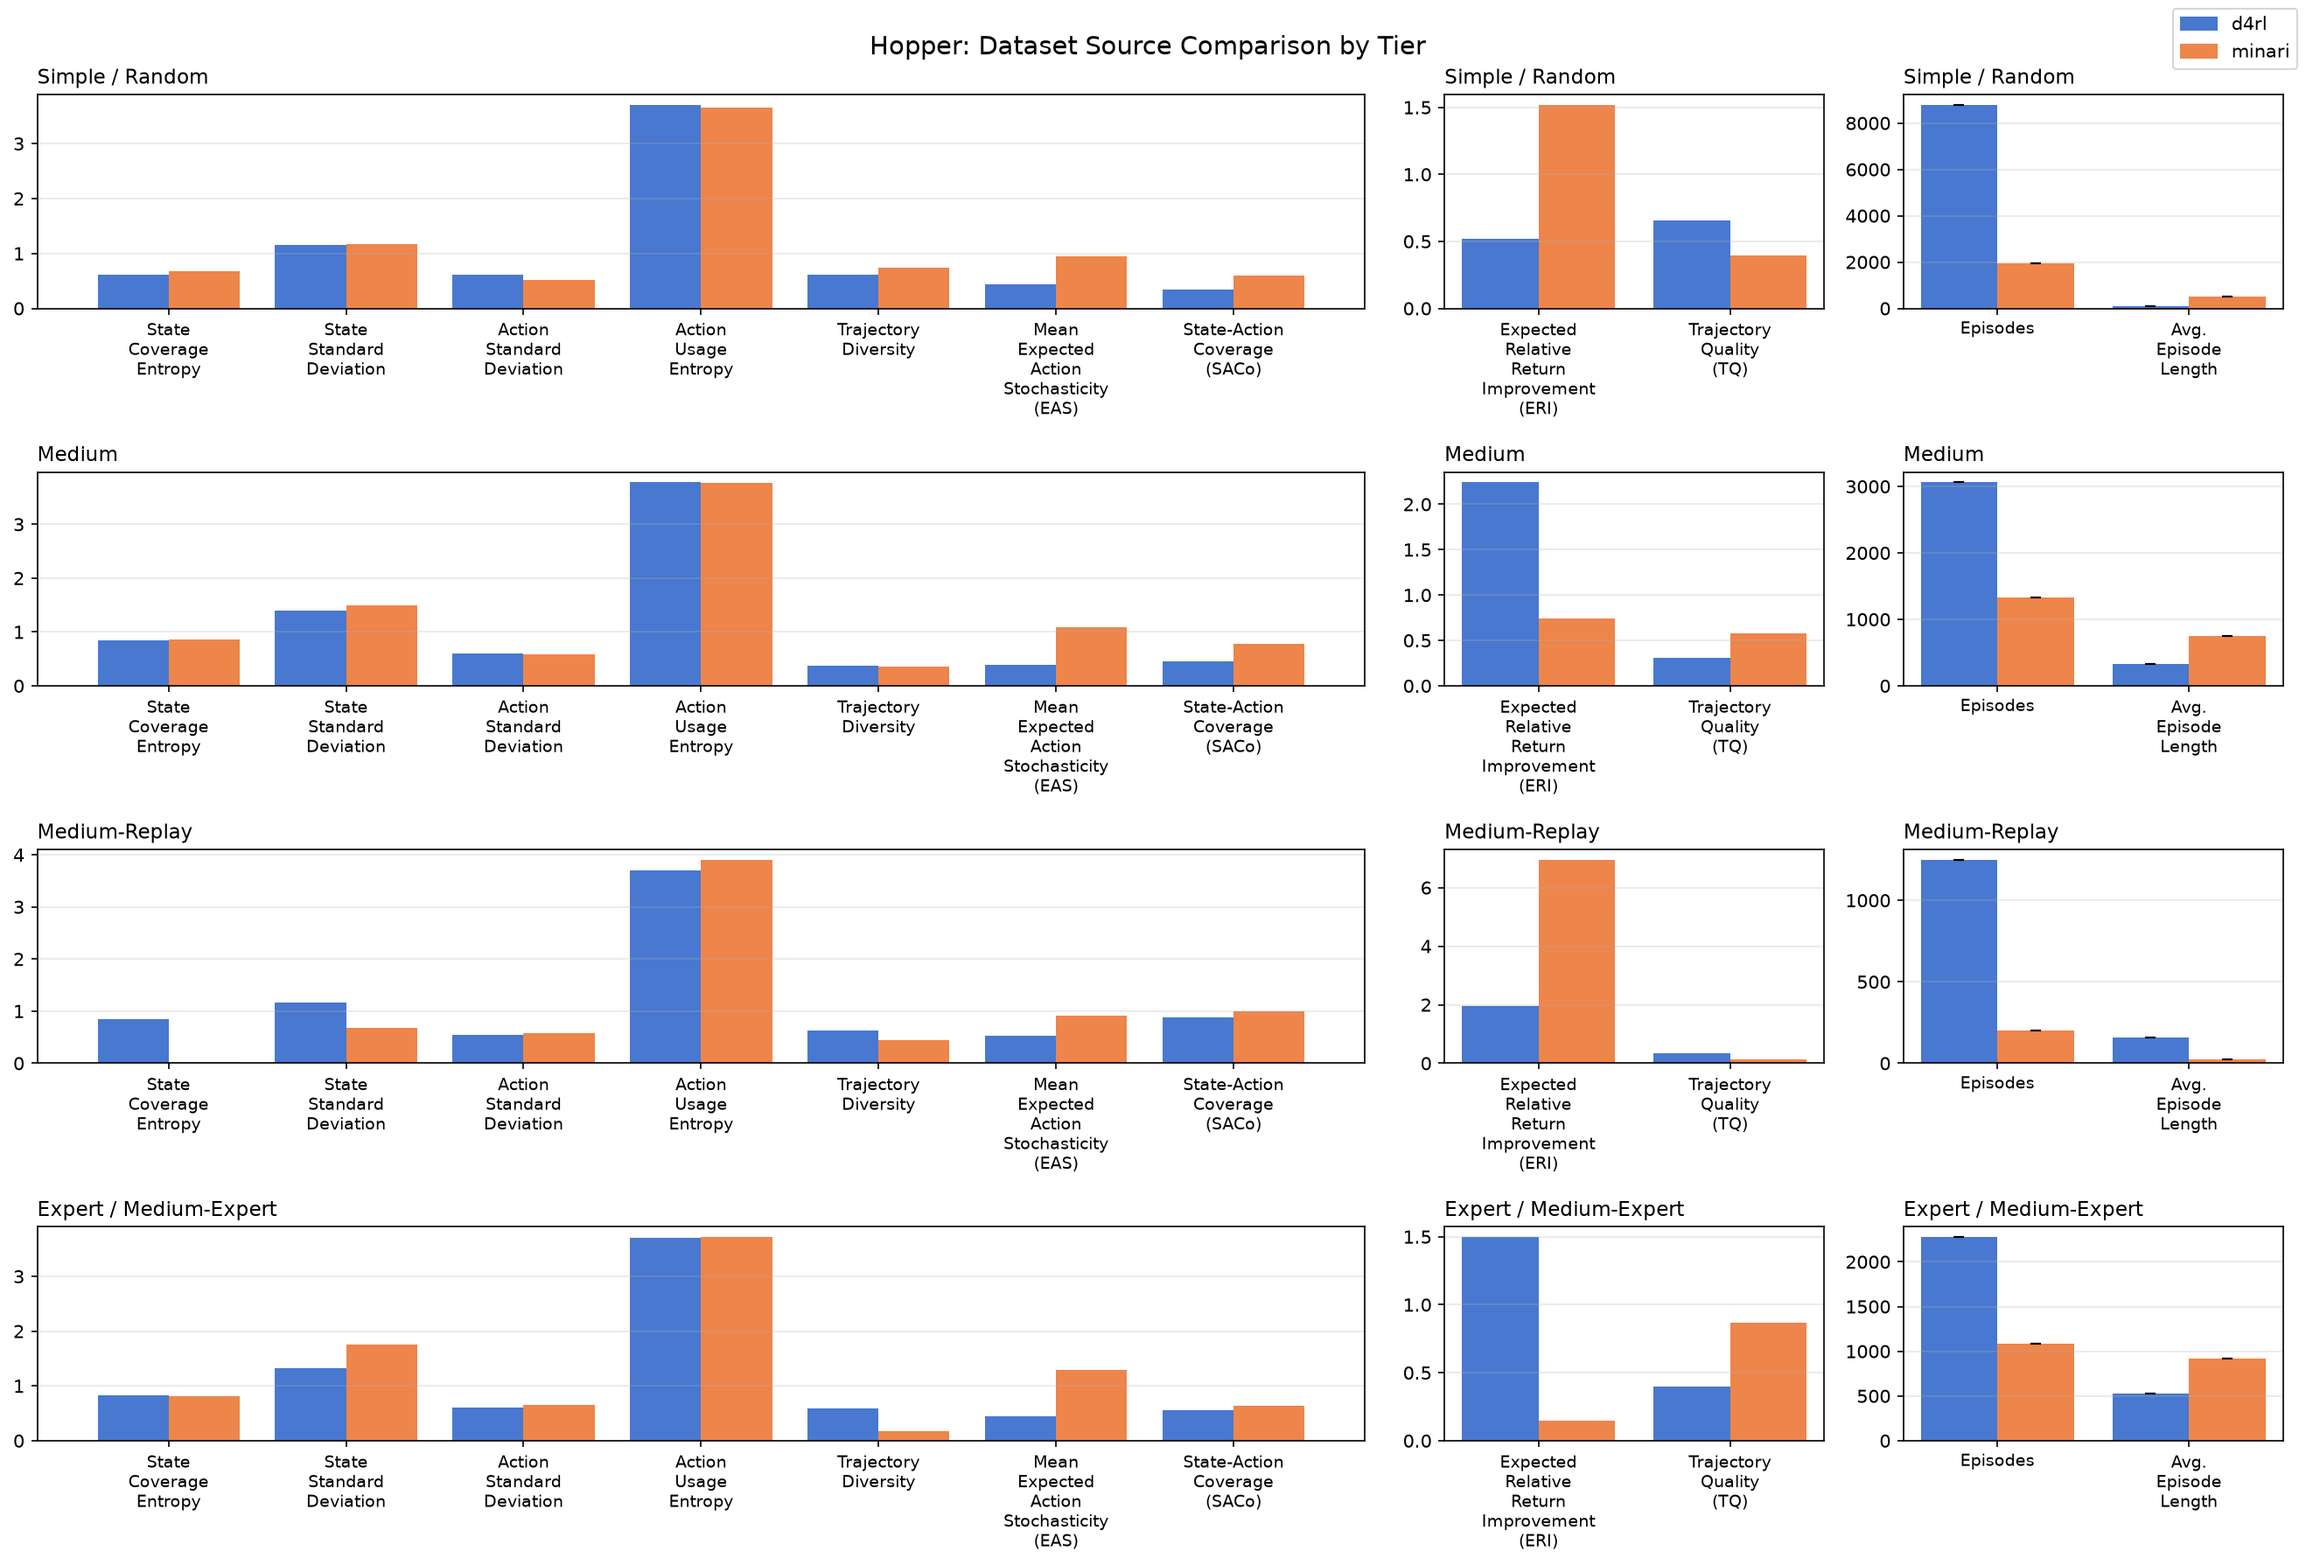
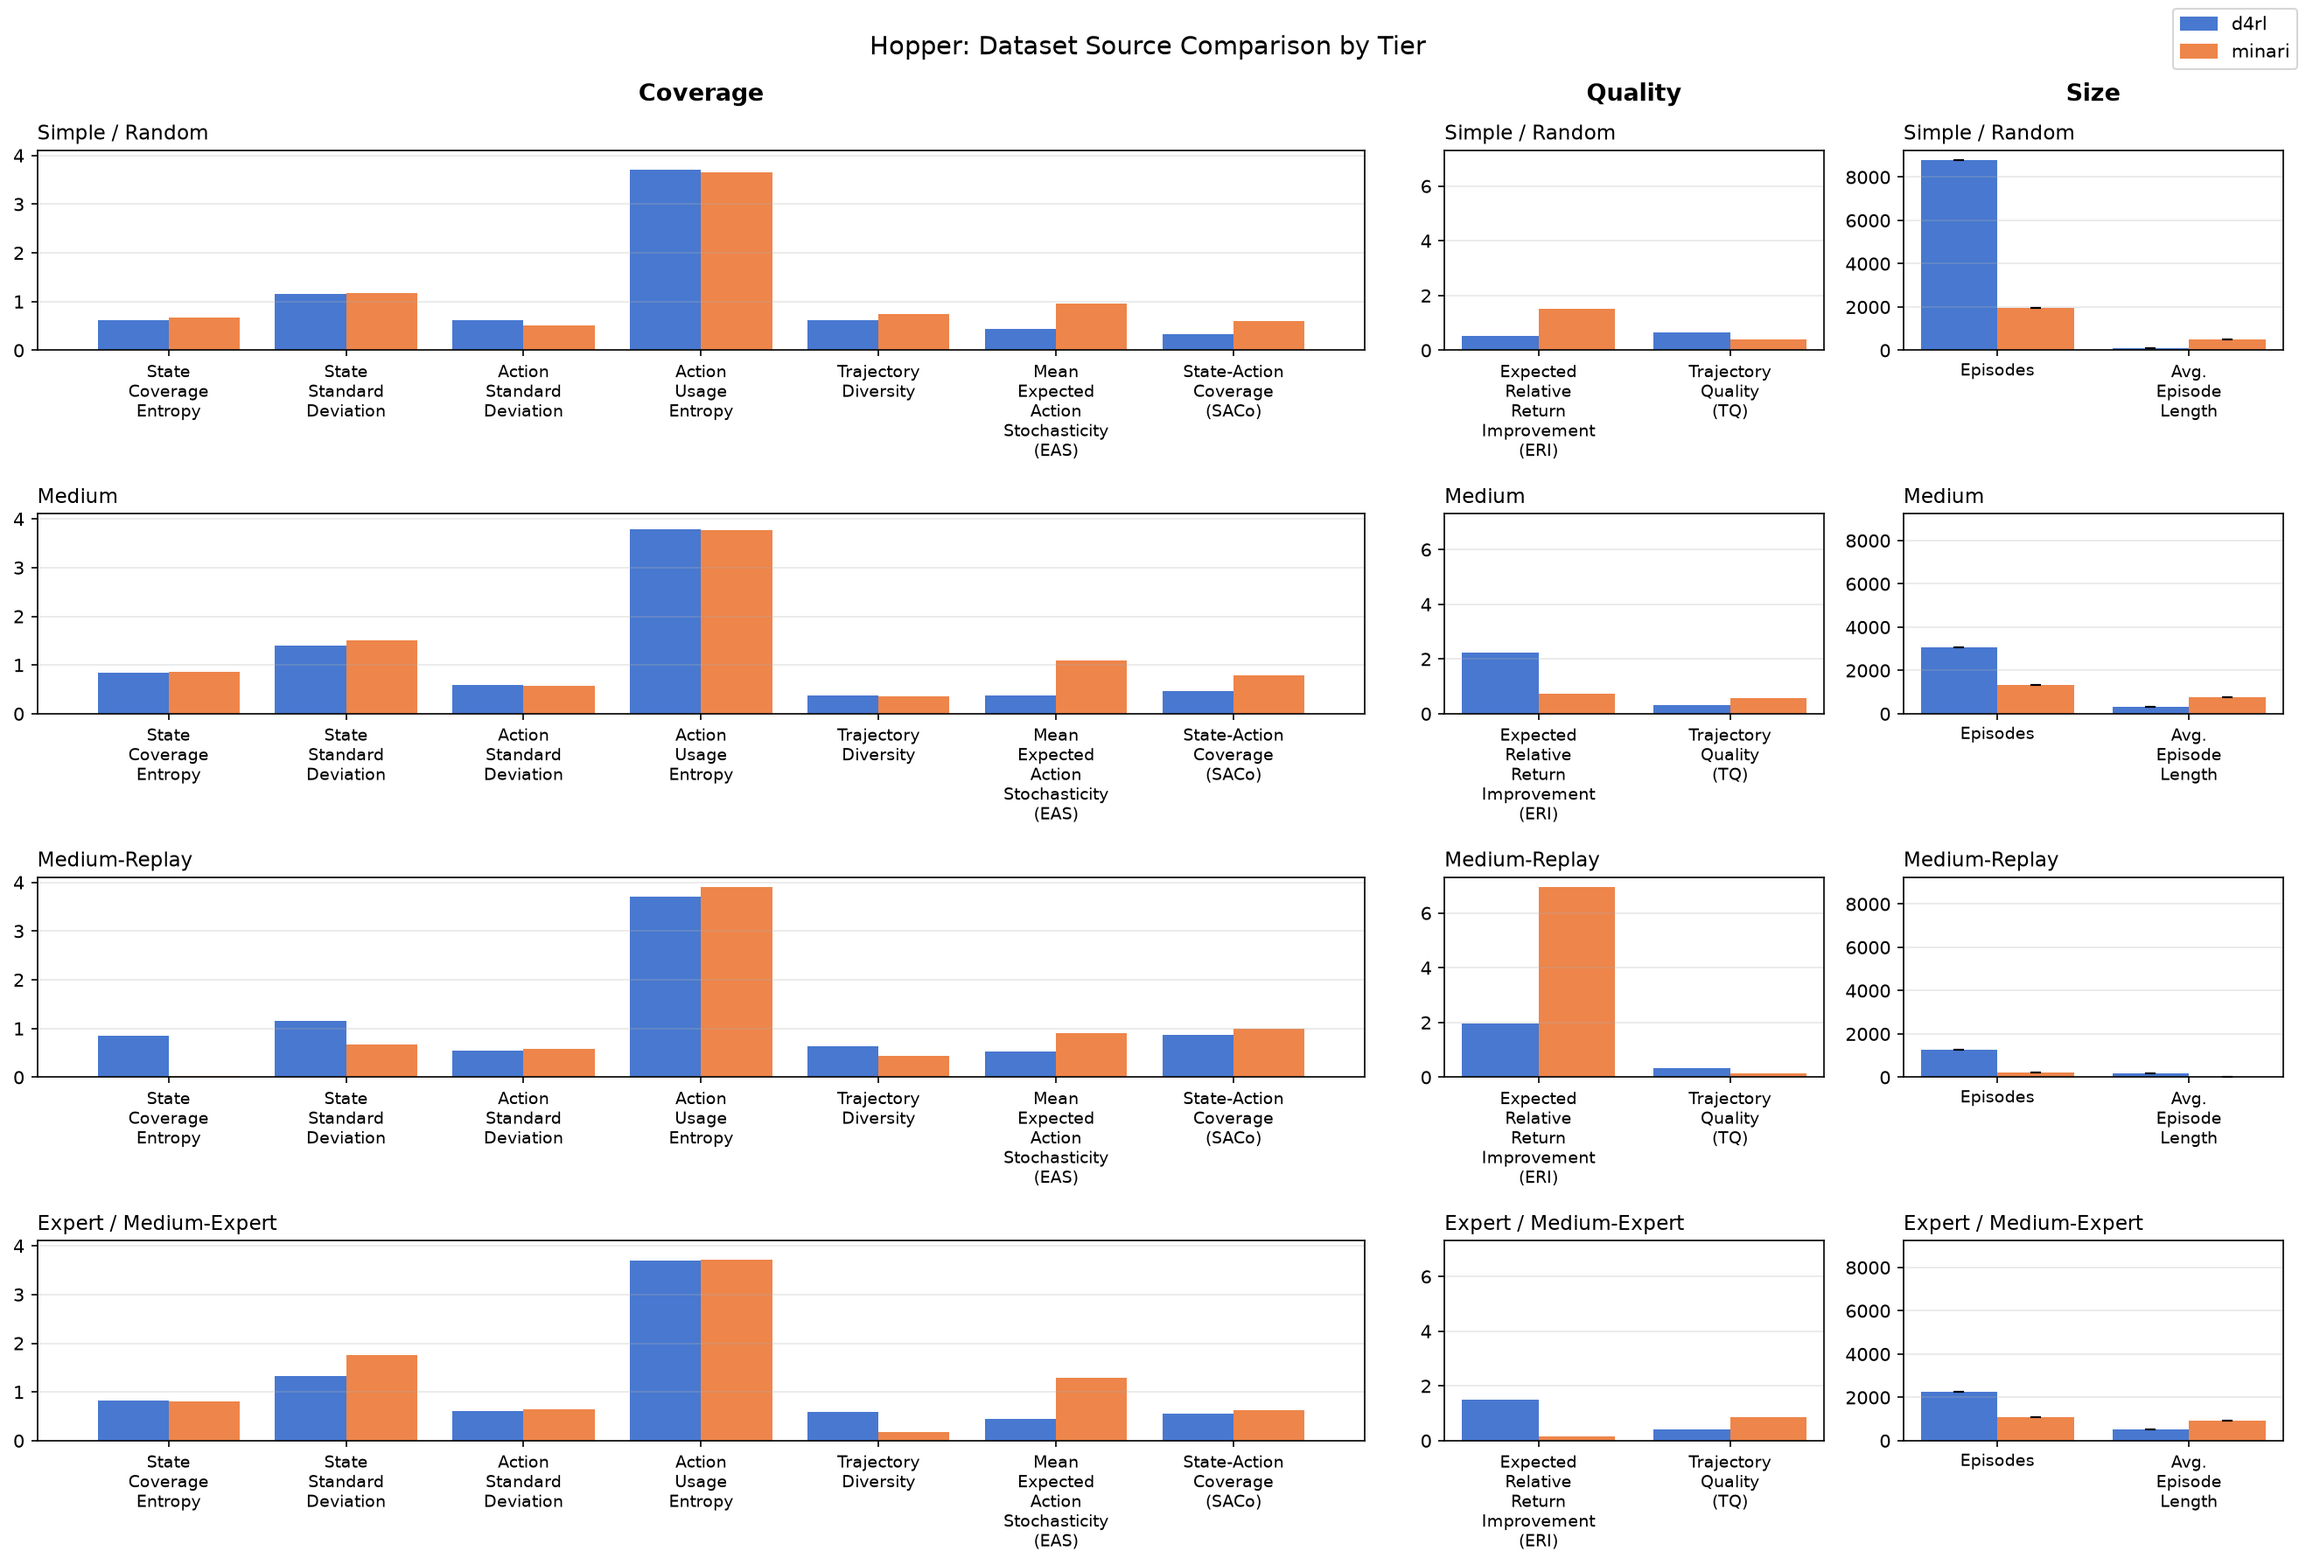
add feature group labels to comparison plots

diff --git a/src/visualization/visualize_results.py b/src/visualization/visualize_results.py
@@ -1242,6 +1242,13 @@ def plot_dataset_source_comparison(df_profiles: pd.DataFrame, output_dir: str):
             figsize=(max(13.0, 1.6 * sum(panel_feature_counts)), 3.0 * len(groups)),
             squeeze=False,
             gridspec_kw={"width_ratios": panel_feature_counts},
+            # Share the y-axis within each panel column (Coverage / Quality /
+            # Size) across every tier-group row, so e.g. the "Simple / Random"
+            # row's Coverage panel is scaled identically to the "Medium"
+            # row's Coverage panel and bar heights are directly comparable
+            # top-to-bottom. Columns still scale independently of each other
+            # since Coverage/Quality/Size live on very different magnitudes.
+            sharey="col",
         )
 
         for row_idx, group in enumerate(groups):
@@ -1260,13 +1267,23 @@ def plot_dataset_source_comparison(df_profiles: pd.DataFrame, output_dir: str):
                 SIZE_FEATURES, x_size, width, n_sources,
                 error_feature="Mean_Return", error_col="Std_Return")
 
-            for ax, x, labels in (
-                (ax_coverage, x_coverage, coverage_labels),
-                (ax_quality, x_quality, quality_labels),
-                (ax_size, x_size, size_labels),
+            for ax, x, labels, col_label in (
+                (ax_coverage, x_coverage, coverage_labels, "Coverage"),
+                (ax_quality, x_quality, quality_labels, "Quality"),
+                (ax_size, x_size, size_labels, "Size"),
             ):
                 ax.set_title(TIER_GROUP_LABELS.get(
                     group, group), fontsize=11, loc="left")
+                # Column category header, set once on the top row only. Uses
+                # a plain axes-fraction text rather than a second set_title()
+                # call: matplotlib shares one title-offset transform across
+                # the 'left'/'center'/'right' title slots of an axes, so a
+                # second set_title() call's pad overrides the first and both
+                # end up on the same baseline instead of stacking.
+                if row_idx == 0:
+                    ax.text(0.5, 1.22, col_label, transform=ax.transAxes,
+                            ha="center", va="bottom", fontsize=13,
+                            fontweight="bold")
                 ax.grid(axis="y", alpha=0.3)
                 ax.set_xticks(x)
                 ax.set_xticklabels(
